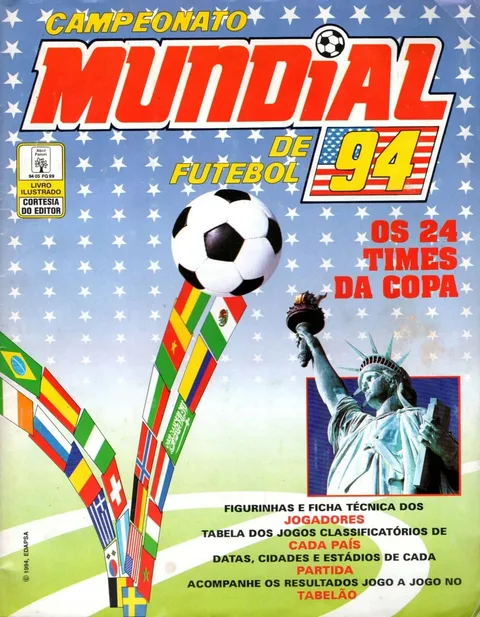
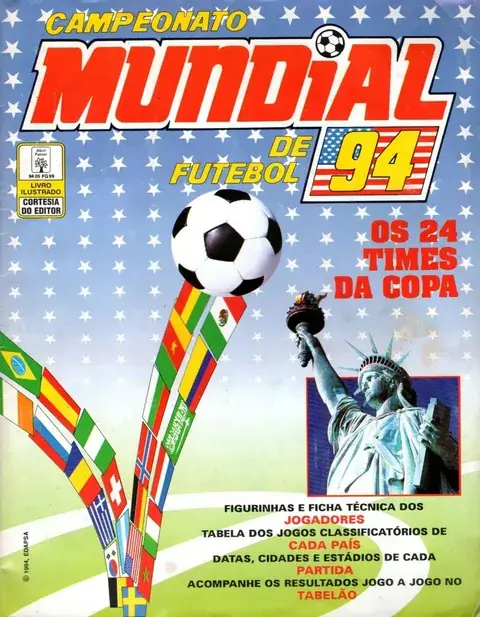
Landing faster on first load: fewer fonts, Supabase on demand, lighter covers
- App fonts (Bebas Neue, Barlow, Barlow Condensed) no longer preloaded: the
  landing only uses Nunito and Figtree, and the 8 extra font files competed
  with the CSS for bandwidth on the first screen (10 → 2 font downloads).
- Supabase client imported on demand (after hydration) in Clarity and the
  landing session provider: ~65 KB out of the landing's initial JavaScript.
- Album covers re-encoded (WebP q72, same 480 px; 680 → 451 KB, visually
  identical) and 360 px versions for the "+N collections" stack.

Measured locally (production build, Lighthouse mobile, median): LCP
4.4 s → 3.2–3.5 s, page weight 755 → 535 KB.

diff --git a/components/Clarity.tsx b/components/Clarity.tsx
@@ -5,11 +5,12 @@ import { usePathname } from "next/navigation";
 import { useEffect, useRef } from "react";
 import { CLARITY_ID, clarityIdentify, claritySet, clarityTagAttribution, ensureClarityQueue } from "@/lib/clarityClient";
 import { readSignupAttribution } from "@/lib/metaClient";
-import { createClient } from "@/lib/supabase/client";
 
 // Único ponto que carrega o Microsoft Clarity. Sem NEXT_PUBLIC_CLARITY_PROJECT_ID não renderiza nada.
 // Marca cada página com a origem da visita (cookies de atribuição) e, com sessão aberta, liga a
 // gravação ao user_id da conta.
+// O cliente do Supabase (~65 KB) é importado sob demanda, depois da hidratação, para não entrar no
+// JavaScript inicial de todas as páginas (na landing ele pesava sem ser usado na primeira tela).
 export default function Clarity() {
   const pathname = usePathname();
   const userId = useRef<string | null>(null);
@@ -17,14 +18,22 @@ export default function Clarity() {
   useEffect(() => {
     if (!CLARITY_ID) return;
     ensureClarityQueue();
-    const supabase = createClient();
-    const { data } = supabase.auth.onAuthStateChange((_event, session) => {
-      const id = session?.user.id ?? null;
-      claritySet("logado", id ? "sim" : "nao");
-      if (id && id !== userId.current) clarityIdentify(id);
-      userId.current = id;
+    let ativo = true;
+    let cancelar: (() => void) | undefined;
+    void import("@/lib/supabase/client").then(({ createClient }) => {
+      if (!ativo) return;
+      const { data } = createClient().auth.onAuthStateChange((_event, session) => {
+        const id = session?.user.id ?? null;
+        claritySet("logado", id ? "sim" : "nao");
+        if (id && id !== userId.current) clarityIdentify(id);
+        userId.current = id;
+      });
+      cancelar = () => data.subscription.unsubscribe();
     });
-    return () => data.subscription.unsubscribe();
+    return () => {
+      ativo = false;
+      cancelar?.();
+    };
   }, []);
 
   // A cada página (inclusive navegação client-side): origem atual e o usuário, como o Clarity pede.

diff --git a/components/marketing/Session.tsx b/components/marketing/Session.tsx
@@ -2,19 +2,29 @@
 
 import Link from "next/link";
 import { createContext, useContext, useEffect, useState, type ReactNode } from "react";
-import { createClient } from "@/lib/supabase/client";
 
 // A landing é estática (rápida e boa para SEO). A sessão é lida no navegador depois de
 // carregar: até lá, os botões mostram a versão de visitante e trocam em seguida.
+// O cliente do Supabase (~65 KB) é importado sob demanda, depois da hidratação: assim ele não
+// entra no JavaScript inicial da landing nem atrasa a primeira tela.
 const SessionContext = createContext(false);
 
 export function SessionProvider({ children }: { children: ReactNode }) {
   const [logado, setLogado] = useState(false);
   useEffect(() => {
-    const supabase = createClient();
-    void supabase.auth.getSession().then(({ data }) => setLogado(Boolean(data.session)));
-    const { data } = supabase.auth.onAuthStateChange((_e, session) => setLogado(Boolean(session)));
-    return () => data.subscription.unsubscribe();
+    let ativo = true;
+    let cancelar: (() => void) | undefined;
+    void import("@/lib/supabase/client").then(({ createClient }) => {
+      if (!ativo) return;
+      const supabase = createClient();
+      void supabase.auth.getSession().then(({ data }) => ativo && setLogado(Boolean(data.session)));
+      const { data } = supabase.auth.onAuthStateChange((_e, session) => setLogado(Boolean(session)));
+      cancelar = () => data.subscription.unsubscribe();
+    });
+    return () => {
+      ativo = false;
+      cancelar?.();
+    };
   }, []);
   return <SessionContext.Provider value={logado}>{children}</SessionContext.Provider>;
 }

diff --git a/content/landing.ts b/content/landing.ts
@@ -83,13 +83,14 @@ export const landing = {
     ],
     // Próximas coleções previstas: `ano` aparece no lugar da figurinha.
     soon: [] as { nome: string; desc: string; tag: string; ano: string }[],
-    // Quarto card da landing: chamada para as demais coleções. `capas`: capas empilhadas no lugar da figurinha.
+    // Quarto card da landing: chamada para as demais coleções. `capas`: capas empilhadas no lugar da figurinha,
+    // na versão de 360 px (brand/albums/pilha), porque aparecem com até ~170 px de largura.
     mais: {
       href: "/colecoes-disponiveis",
       titulo: "Mais coleções",
       desc: "Álbuns das Copas de 2022 a 1990, Extra Stickers e Adrenalyn XL. Tem raridade guardada? Coloque à venda na sua loja.",
       link: "Ver todas as coleções",
-      capas: ["/brand/albums/copa-italia-1990.webp", "/brand/albums/copa-brasil-2014.webp", "/brand/albums/copa-catar-2022.webp"],
+      capas: ["/brand/albums/pilha/copa-italia-1990.webp", "/brand/albums/pilha/copa-brasil-2014.webp", "/brand/albums/pilha/copa-catar-2022.webp"],
     },
     // Página /colecoes-disponiveis
     pagina: {

diff --git a/app/layout.tsx b/app/layout.tsx
@@ -6,22 +6,29 @@ import { PLATFORM_NAME } from "@/lib/brand";
 import MetaPixel from "@/components/MetaPixel";
 import Clarity from "@/components/Clarity";
 
+// Fontes do app logado, sem pré-carga: a landing e as páginas públicas usam outras fontes (Nunito e
+// Figtree, no layout de marketing), e pré-carregar lá os 8 arquivos destas disputava banda com o CSS
+// na primeira tela. No app elas baixam assim que o CSS as pede, com a fonte de reserva ajustada pelo
+// next/font enquanto isso.
 const bebasNeue = Bebas_Neue({
   weight: "400",
   subsets: ["latin"],
   variable: "--font-bebas-neue",
+  preload: false,
 });
 
 const barlow = Barlow({
   weight: ["400", "500", "600", "700"],
   subsets: ["latin"],
   variable: "--font-barlow",
+  preload: false,
 });
 
 const barlowCondensed = Barlow_Condensed({
   weight: ["500", "600", "700"],
   subsets: ["latin"],
   variable: "--font-barlow-condensed",
+  preload: false,
 });
 
 export const metadata: Metadata = {
